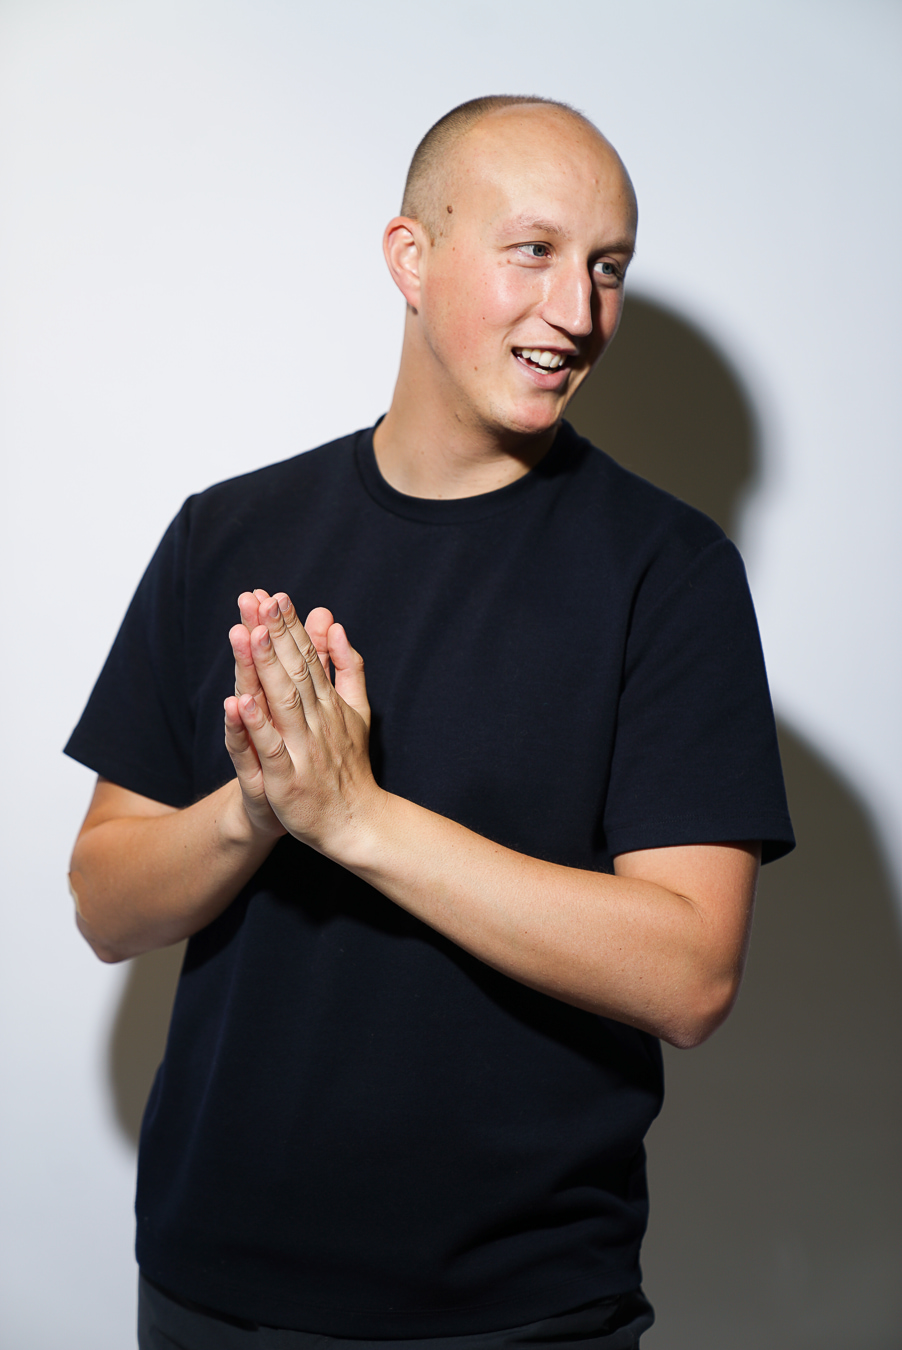
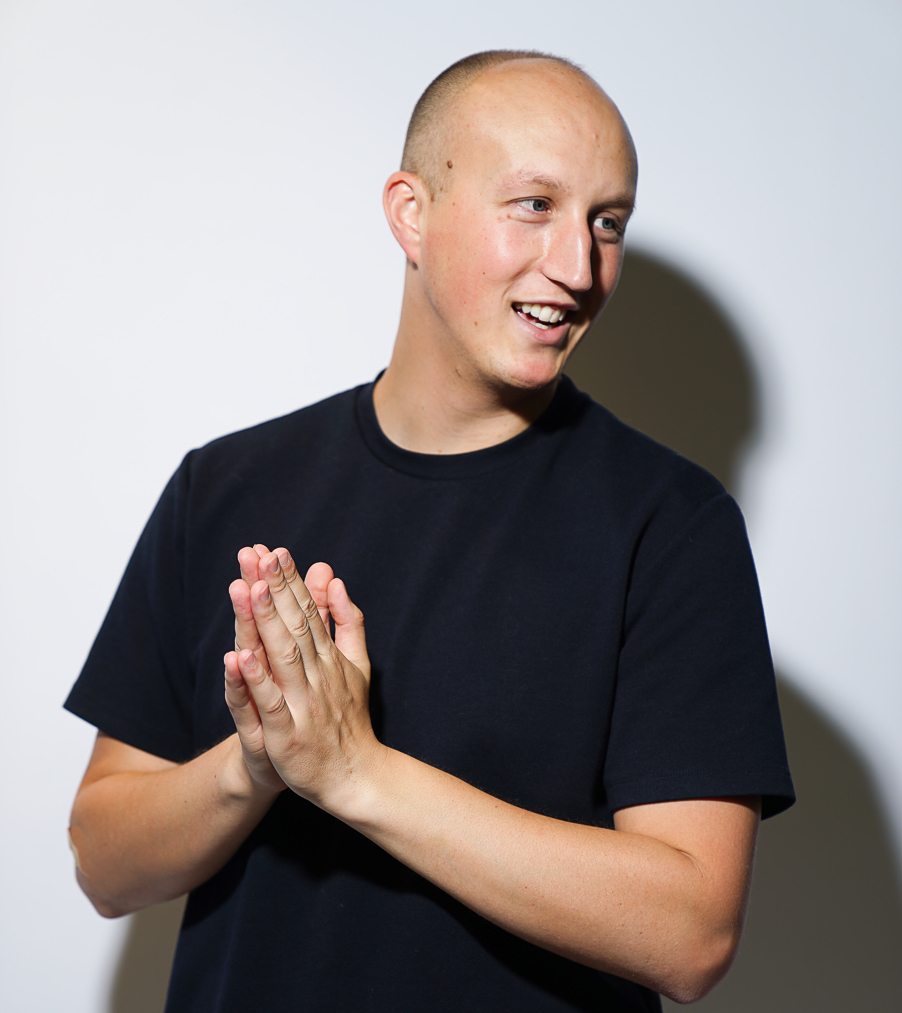
Uploading image

diff --git a/index.html b/index.html
@@ -72,6 +72,7 @@ j=d.createElement(s),dl=l!='dataLayer'?'&l='+l:'';j.async=true;j.src=
 </style>
 </head>
 <body>
+  <img style="display: none" src="images/Designit_Connor-1.jpg"></img>
   <div style="display:block" class="white-overlay"></div>
   <div id="content" class="content">
     <div data-w-id="0c21dca2-121b-50f7-efc7-09c3552e9a4d" data-animation="default" data-collapse="medium" data-duration="400" data-easing="ease" data-easing2="ease" role="banner" class="navbar9_component w-nav">
